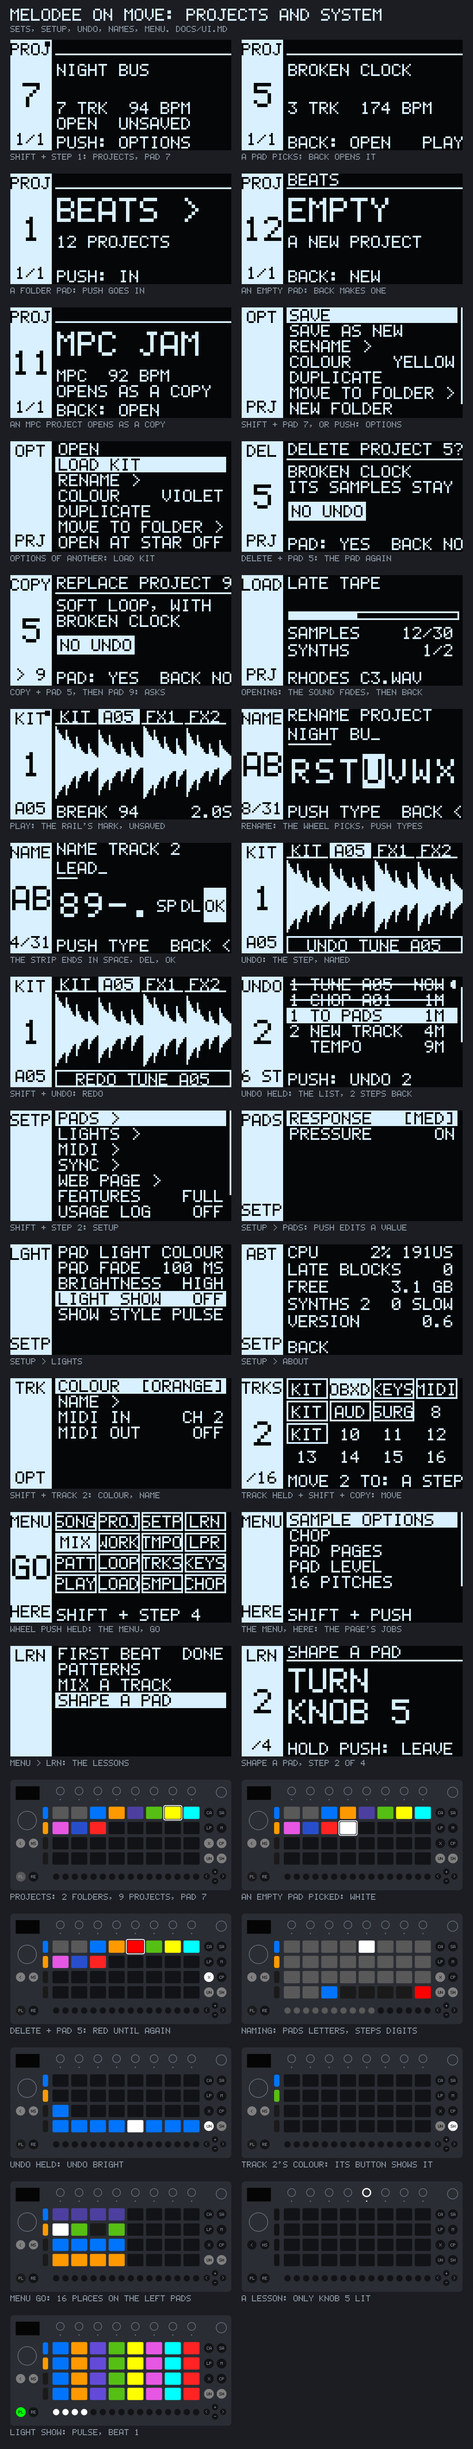
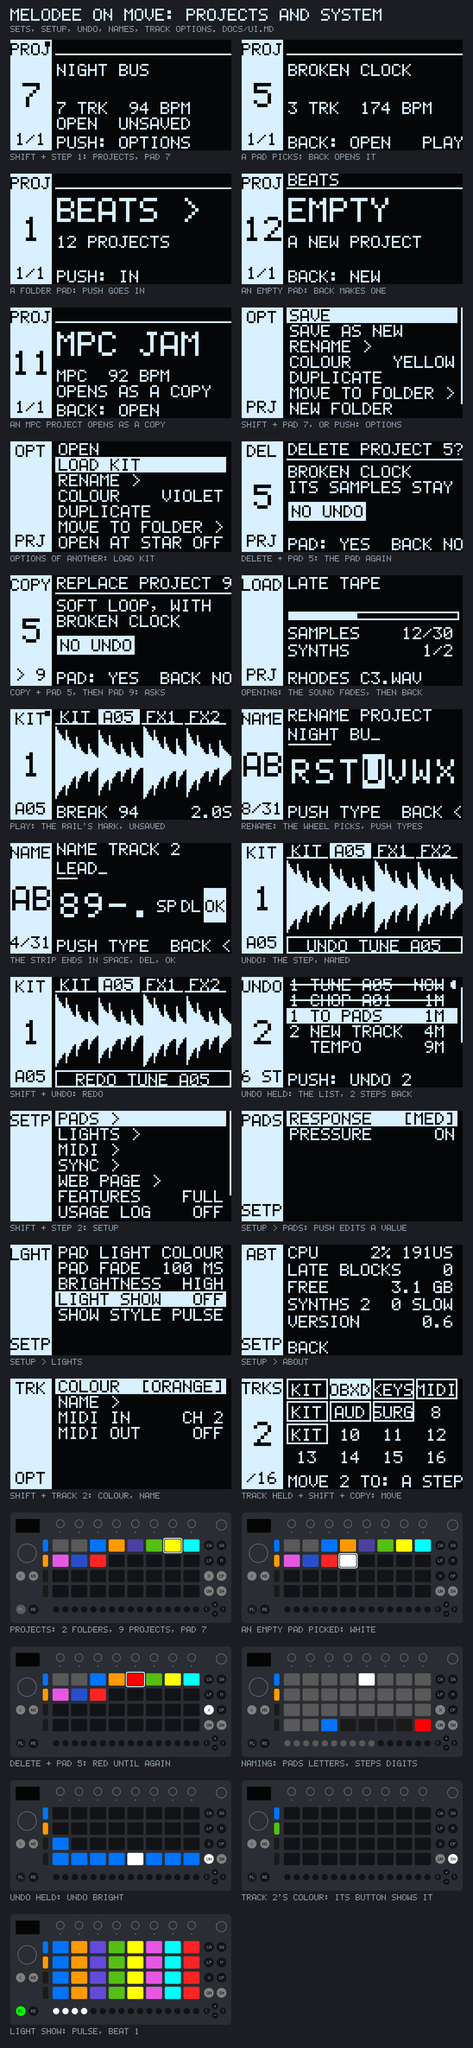
docs(move): projects, Setup, undo steps, naming and the remote; parity rows

diff --git a/docs/PARITY.md b/docs/PARITY.md
@@ -74,7 +74,7 @@ Kerem has checked it there. `n/a` rows have no box.
 | **MIDI track ports** on the new-track sheet: Out jack, USB-C, All USB (guide/tracks.md) | MIDI & sync & undo & projects | new-track sheet; USB only | [ ] |
 | **Delete a track**: sound, kit, patterns; its mix strip stays; asks (its undo: MIDI & sync & undo & projects) (MELODEE.md › The panel, Pad Bank) | done | track button held + Delete + step | [ ] |
 | **Copy a track**: sound, kit, 128 patterns, motion; the target keeps its strip; a synth gets its own instance of the module (MELODEE.md › Across every page, Copy) | done | track button held + Copy + step, then a step | [ ] |
-| **Move a track**: trades places; song clips, keys, lanes and sources follow it (MELODEE.md › Across every page, Move) | MIDI & sync & undo & projects | track button held + Shift + Copy + step, then a step | [ ] |
+| **Move a track**: trades places; song clips, keys, lanes and sources follow it (MELODEE.md › Across every page, Move) | done | track button held + Shift + Copy + step, then a step (or Shift + Copy + steps on the 16 tracks); a track there trades places; one undo | [ ] |
 | **Stage**: each track's home pages, B1 source, B2 how it plays, B3 where it goes (MELODEE.md › Playing) | kit depth | the track's Play screen (done: a kit's PLAY knobs, a module's pages); the rest as pad pages, Left / Right | [ ] |
 | **Synth presets**: walked, loaded a moment after the last turn (MELODEE.md › Playing, A synth) | done | jogwheel (Schwung modules) | [ ] |
 | **Synth EDIT**: the instrument's own parameters and page map (MELODEE.md › Playing, Edit) | done | knobs 1-8, Left / Right; push: the module's menu | [ ] |
@@ -315,51 +315,51 @@ Kerem has checked it there. `n/a` rows have no box.
 | --- | --- | --- | --- |
 | **The whole project as a `.mldp`** (MELODEE.md › Files on the card) | done | automatic | [ ] |
 | **Autosave** a moment after the last change and on the way out (melodee-move README › Saving) | done | automatic | [ ] |
-| **Project page**: Save, Open, New (or KIT: a factory kit on track 1) (MELODEE.md › Project and system) | MIDI & sync & undo & projects | Shift + Step 16, or Places > Project | [ ] |
-| **Project list**: folders, each project's tracks and tempo, sorting, the open one marked (MELODEE.md › Project and system) | MIDI & sync & undo & projects | jogwheel; push; Back | [ ] |
-| **Project sheet**: Save, Save as new, Rename, Duplicate, Move to folder, New folder, Open at start, Delete (MELODEE.md › Project and system) | MIDI & sync & undo & projects | push sheet | [ ] |
-| **Load kit (no patterns)** from another project (MELODEE.md › Project and system) | MIDI & sync & undo & projects | project sheet | [ ] |
-| **A save frees unused sample slots** (MELODEE.md › Project and system) | MIDI & sync & undo & projects | automatic | [ ] |
-| **UNSAVED** shown while there are changes (MELODEE.md › Project and system) | MIDI & sync & undo & projects | the rail | [ ] |
-| **Loading**: the sound fades, the audio thread waits while the project builds; the Loading sheet counts files (MELODEE.md › Project and system) | MIDI & sync & undo & projects | screen | [ ] |
+| **Project page**: Save, Open, New (or KIT: a factory kit on track 1) (MELODEE.md › Project and system) | done | Shift + Step 1, the Move's Set Overview: projects on the pads; the wheel's push or Shift + pad: Save, Open, New (an empty pad, then Back) | [ ] |
+| **Project list**: folders, each project's tracks and tempo, sorting, the open one marked (MELODEE.md › Project and system) | done | the pads, 32 a page (Plus / Minus), each project keeping its pad as a Set; folders grey (push in, Back out); its tracks and tempo, OPEN on the open one; pads in place of sorting | [ ] |
+| **Project sheet**: Save, Save as new, Rename, Duplicate, Move to folder, New folder, Open at start, Delete (MELODEE.md › Project and system) | done | the wheel's push or Shift + pad: Save, Save as new, Rename, Colour, Duplicate, Move to folder, New folder, Open at start, Delete (asks); Copy + pad, then a pad (asks before replacing); Delete + pad, the pad again | [ ] |
+| **Load kit (no patterns)** from another project (MELODEE.md › Project and system) | done | the project sheet of another project: Load kit, onto the selected track, one undo | [ ] |
+| **A save frees unused sample slots** (MELODEE.md › Project and system) | done | the project sheet's Save (a slot no pad plays and no undo can bring back) | [ ] |
+| **UNSAVED** shown while there are changes (MELODEE.md › Project and system) | done | a mark in the rail's top right corner; OPEN UNSAVED on the projects | [ ] |
+| **Loading**: the sound fades, the audio thread waits while the project builds; the Loading sheet counts files (MELODEE.md › Project and system) | done | the engine parked (faded out, silent) while the project is built, then faded in; the Loading sheet counts samples and synths, presses wait | [ ] |
 | **Card folders read ahead** (the MPC's exFAT driver) (MELODEE.md › Project and system) | n/a | a fix for the MPC's card driver; the Move's storage is internal | — |
-| **MPC Sample projects** `.xpj` opened as a copy (MELODEE.md › Project and system) | MIDI & sync & undo & projects | the project list | [ ] |
-| **MPC 3 projects** opened, keygroup and audio tracks too (guide/projects-and-files.md) | MIDI & sync & undo & projects | the project list | [ ] |
+| **MPC Sample projects** `.xpj` opened as a copy (MELODEE.md › Project and system) | MIDI & sync & undo & projects | built: listed on the pads, opened as a copy (Melodee's importer, compiled unchanged), saved as a .mldp beside it; not tested yet: no .xpj at hand (Kerem to check on the Move) | [ ] |
+| **MPC 3 projects** opened, keygroup and audio tracks too (guide/projects-and-files.md) | MIDI & sync & undo & projects | built as the MPC Sample's (the same importer); keygroup and audio tracks open as tracks, their playing instruments' and sampling's; not tested yet: no MPC 3 project at hand | [ ] |
 | **SD card access**: the card lent to a computer (MELODEE.md › Project and system) | n/a | no card; the web page's Files tab reaches the Move's storage | — |
-| **Settings**: eight doors, a short list each; Reset Factory Settings (MELODEE.md › Project and system) | MIDI & sync & undo & projects | Shift + Step 8; jogwheel the row, a knob sets it | [ ] |
-| **PADS settings**: pad response (soft, medium, hard, full level), pad pressure on / off, Double Seq (MELODEE.md › Project and system) | MIDI & sync & undo & projects | Settings | [ ] |
+| **Settings**: eight doors, a short list each; Reset Factory Settings (MELODEE.md › Project and system) | done | Shift + Step 2, the Move's Setup: doors PADS, LIGHTS (and move-midi's MIDI, SYNC, move-web's WEB PAGE); the wheel the row, push edits; Reset Factory Settings left out: the Move's own is Ableton's, Melodee's settings are few | [ ] |
+| **PADS settings**: pad response (soft, medium, hard, full level), pad pressure on / off, Double Seq (MELODEE.md › Project and system) | done | Setup > PADS: response (soft, medium, hard, full level), pressure on / off; Double Seq's copy is the sequencer's | [ ] |
 | **KNOBS settings**: takeover (MELODEE.md › Project and system) | n/a | relative knobs have nothing to pick up | — |
 | **SCREEN settings**: palette, fonts, brightness, the place bar's place (MELODEE.md › Project and system; guide/settings.md) | n/a | a one-bit screen with one font (UI.md) | — |
 | **Screen Mirror**: the MPC as a USB webcam of its screen (MELODEE.md › Project and system) | n/a | no USB video gadget on the Move's kernel; a screen view on the web page could stand in | — |
 | **AUDIO settings**: sample rate 44.1, 48, 96 kHz; buffer 256-1024 frames (MELODEE.md › Project and system) | n/a | the Move runs 44.1 kHz in blocks of 128 frames, set by its XMOS link | — |
 | **USB volume** (MELODEE.md › Project and system) | n/a | no USB audio | — |
 | **SAMPLING settings**: Recall grab, gap, trim end; Take auto end, after, silence below (MELODEE.md › Project and system) | sampling | Settings | [ ] |
-| **ABOUT**: each core's load, dropouts, storage room and stream misses, plug-ins' cost; versions, licence (MELODEE.md › Project and system) | MIDI & sync & undo & projects | Settings > About | [ ] |
-| **Usage log**: what the hands do, no names, a file each start (MELODEE.md › Files on the card; guide/settings.md) | MIDI & sync & undo & projects | Settings | [ ] |
-| **Name sheet**: pads type like phone keys (MELODEE.md › Project and system) | MIDI & sync & undo & projects | the pad keyboard module pages use (letters on pads, digits on steps) | [ ] |
+| **ABOUT**: each core's load, dropouts, storage room and stream misses, plug-ins' cost; versions, licence (MELODEE.md › Project and system) | done | Setup > ABOUT: the audio cycle's share and longest, late exchanges, room left, synths and their slow calls, the build | [ ] |
+| **Usage log**: what the hands do, no names, a file each start (MELODEE.md › Files on the card; guide/settings.md) | done | Setup > USAGE LOG: Usage/usage-<start>.txt, a line a job (the time, the screen, the job), no names, written every 10 s | [ ] |
+| **Name sheet**: pads type like phone keys (MELODEE.md › Project and system) | done | the Move's own typing (Kerem): the wheel walks a strip, push types, OK ends; pads letters, steps digits; Back deletes, held cancels | [ ] |
 
 ## Across every page
 
 | Feature | Status | Move controls | ✓ |
 | --- | --- | --- | --- |
 | **Screen grammar and header**: a glyph and two words, back on B1, the verb on B3, sheets as cards, where you are always shown (MELODEE.md › Across every page) | done | the Rail (UI.md): rail, subject, detail line, sheets | [ ] |
-| **Questions before a loss**: one sheet, what goes, whether undo brings it back (MELODEE.md › Across every page) | MIDI & sync & undo & projects | push yes, Back no | [ ] |
+| **Questions before a loss**: one sheet, what goes, whether undo brings it back (MELODEE.md › Across every page) | done | one sheet (ui::system::question): what goes, the undo chip; push yes (or the pad again), Back no | [ ] |
 | **Place bar**: the bars of the pattern playing, how far it has played, coloured by state (MELODEE.md › Across every page) | sequencer | step lights (the playhead); a bar on the rail | [ ] |
 | **Mute mode**: pads mute kit pads or tracks, Shift + pad solos, Shift + Mute unmutes all; kit pad mutes saved (MELODEE.md › Across every page) | mixer & effects | Mute (a tap latches, a hold lasts) + pad; Shift + Mute | [ ] |
 | **Mute and solo tracks** from the overview (MELODEE.md › Pad lights, Tracks) | mixer & effects | track button held + Mute + step | [ ] |
 | **Erase a kit pad**, stopped (MELODEE.md › Across every page, Erase) | kit depth | Delete + pad | [ ] |
 | **Close a gap**: an empty pad erased moves the pads after it down, notes and lanes too (MELODEE.md › Across every page, Erase) | kit depth | Delete + an empty pad | [ ] |
-| **Erase + pot**: the value back to its start (MELODEE.md › Across every page, Erase) | MIDI & sync & undo & projects | Delete + knob touch | [ ] |
-| **Erase tapped alone**: the page's selection (a note, step, pattern, track, loop, effect, slice, layer, project) (MELODEE.md › Across every page, Erase) | MIDI & sync & undo & projects | Delete tapped | [ ] |
+| **Erase + pot**: the value back to its start (MELODEE.md › Across every page, Erase) | done | Delete + knob touch: the motion deleted where the knob has some (the Move's), else the value back to its start (a kit pad's; a module's values have no start known yet) | [ ] |
+| **Erase tapped alone**: the page's selection (a note, step, pattern, track, loop, effect, slice, layer, project) (MELODEE.md › Across every page, Erase) | done | Delete tapped: on the projects, the one picked (asks); on Play, the Move's (the pattern, the sequencer's); each area's page its own selection | [ ] |
 | **Copy kit pads**: the first pad, then the target (MELODEE.md › Across every page, Copy) | kit depth | Copy + pad, then a pad | [ ] |
-| **Undo and redo**: the last 32 steps; a take, a control's turns, a press each one (MELODEE.md › Across every page, Undo) | MIDI & sync & undo & projects | Undo; Shift + Undo | [ ] |
-| **Undo list**: the steps with their glyphs and age, back to any one (MELODEE.md › Across every page, Undo) | MIDI & sync & undo & projects | Undo held | [ ] |
+| **Undo and redo**: the last 32 steps; a take, a control's turns, a press each one (MELODEE.md › Across every page, Undo) | done | Undo; Shift + Undo: 32 steps, a press each, a knob's turns one, a load one; history.h | [ ] |
+| **Undo list**: the steps with their glyphs and age, back to any one (MELODEE.md › Across every page, Undo) | done | Undo held: the steps with their track and age, struck through above the cursor; the wheel, push goes there | [ ] |
 | **Knob takeover**: Pickup, Scaled, Instant (MELODEE.md › Across every page) | n/a | relative knobs have nothing to pick up | — |
 | **Pad expression**: a pad's pressure as each note's poly aftertouch (MELODEE.md › Across every page) | done | pad pressure (Schwung modules) | [ ] |
 | **Text never under 11 px**, never cut (MELODEE.md › Across every page) | n/a | one 5 x 7 font at 128 x 64 (UI.md) | — |
-| **The Menu**: HERE, the page's jobs with their shortcuts; GO, the 16 places as the pads (guide/basics.md) | MIDI & sync & undo & projects | jogwheel push held; places on the pads | [ ] |
-| **Lessons**: First beat, Sequences, Mix a track, Shape a pad (guide/basics.md) | MIDI & sync & undo & projects | Places > Learn | [ ] |
-| **Basic and Full**: Basic shows the stock pages plus tracks, plug-ins, the mixer and Song (guide/settings.md) | MIDI & sync & undo & projects | Settings | [ ] |
+| **The Menu**: HERE, the page's jobs with their shortcuts; GO, the 16 places as the pads (guide/basics.md) | n/a | Kerem (2026-11-20): no Menu on the Move; Shift + the steps are the places | [ ] |
+| **Lessons**: First beat, Sequences, Mix a track, Shape a pad (guide/basics.md) | n/a | Kerem (2026-11-20): no Menu on the Move, so no Learn | [ ] |
+| **Basic and Full**: Basic shows the stock pages plus tracks, plug-ins, the mixer and Song (guide/settings.md) | done | Setup > FEATURES: Basic leaves out Melodee's Looper (Shift + Step 12); other areas ask `studio.settings.full` for their extras | [ ] |
 
 ## Sound engines and synths
 
@@ -398,7 +398,7 @@ Kerem has checked it there. `n/a` rows have no box.
 | **Idle plug-ins sleep** when silent (MELODEE.md › Threads and data) | schwung | covered by Schwung's modules, the Move's plug-ins | — |
 | **Support in the binary**: GUI stubs, libsndfile, libsamplerate, FFTW, the armhf runtime (MELODEE.md › Plug-ins) | schwung | covered by Schwung's modules, the Move's plug-ins | — |
 | **Saved with the project**: each plug-in's path and state (PLUG) (MELODEE.md › Plug-ins, Saving) | done | a Schwung module's state in its PLUG entry | [ ] |
-| **Replace a plug-in**: asks; one undo brings the old one back with its state (MELODEE.md › Plug-ins) | MIDI & sync & undo & projects | asks; its undo | [ ] |
+| **Replace a plug-in**: asks; one undo brings the old one back with its state (MELODEE.md › Plug-ins) | done | loading another Schwung module over one asks (the question sheet); one undo brings the old one back with its values | [ ] |
 | **Plug-in probe**: a command-line host to try a plug-in first (MELODEE.md › Plug-ins) | done | `--probe-modules` | [ ] |
 
 ## Files
@@ -408,7 +408,7 @@ Kerem has checked it there. `n/a` rows have no box.
 | **Projects** `.mldp` in tagged sections, written whole or not at all (MELODEE.md › Files on the card) | done | /data/UserData/Melodee/Projects | [ ] |
 | **Everything under one folder** (MELODEE.md › Files on the card) | done | /data/UserData/Melodee; `--home` moves it | [ ] |
 | **Folders named from outside** (`$MELODEE_*` on a host) (MELODEE.md › Files on the card) | done | `--home`, `--samples`, `--modules` | [ ] |
-| **Settings file**: settings, MIDI and Input Config, the project to open at start, the last one (MELODEE.md › Files on the card) | MIDI & sync & undo & projects | automatic | [ ] |
+| **Settings file**: settings, MIDI and Input Config, the project to open at start, the last one (MELODEE.md › Files on the card) | done | Move.settings: Setup's settings, the metronome, the track played last, start= and last= (MIDI and Input Config: move-midi's, sampling's) | [ ] |
 | **Samples folders**: Recorded, Edits, Banks, Looper, Expansions, Keygroups, Stems (MELODEE.md › Files on the card) | sampling | /data/UserData/Melodee/Samples | [ ] |
 | **Cache**: decoded long samples and instrument files, 4 GB, aged out after 30 days (MELODEE.md › Files on the card) | kit depth | /data/UserData/Melodee/Cache | [ ] |
 | **Export folders**: Mixdowns, Stems, MIDI, MPC 3 (MELODEE.md › Files on the card; guide/song.md) | song & export | /data/UserData/Melodee | [ ] |
@@ -420,8 +420,8 @@ Kerem has checked it there. `n/a` rows have no box.
 | Feature | Status | Move controls | ✓ |
 | --- | --- | --- | --- |
 | **Status line** with Melodee's fields (MELODEE.md › Remote) | done | the Move's status line every 5 s; each area adds its fields | [ ] |
-| **Remote presses** `melodee-press`: buttons, pads, knobs (MELODEE.md › Remote) | MIDI & sync & undo & projects | a command over SSH | [ ] |
-| **`melodee-render`**: render workers off or on (MELODEE.md › Remote) | MIDI & sync & undo & projects | a command over SSH | [ ] |
+| **Remote presses** `melodee-press`: buttons, pads, knobs (MELODEE.md › Remote) | done | `melodee-move --ctl 'melodee-press shift+step1'` over SSH: the runtime's control socket plays them into the Move's input | [ ] |
+| **`melodee-render`**: render workers off or on (MELODEE.md › Remote) | done | `melodee-move --ctl 'melodee-render serial|parallel'` | [ ] |
 | **`melodee-looper`** (MELODEE.md › Remote) | looper | a command over SSH | [ ] |
 | **`melodee-midi`**: a message into the input; panic (MELODEE.md › Remote) | MIDI & sync & undo & projects | a command over SSH | [ ] |
 | **`melodee-print`, `melodee-freeze`, `melodee-unfreeze`** (MELODEE.md › Print and freeze) | song & export | a command over SSH | [ ] |
@@ -475,15 +475,15 @@ sections, each on Shift + Step n.
 | **Play and Stop** (MELODEE.md › The panel) | done | Play, a toggle | [ ] |
 | **Sample Select**: the browser on a kit, the picker on a plug-in track (MELODEE.md › The panel) | done | Menu | [ ] |
 | **Exit** (Power): save and back to the stock app (MELODEE.md › Project and system) | done | Shift + Back | [ ] |
-| **Shift held**: the jobs lit white, toggles bright; toggles kept in the settings (MELODEE.md › Shift + pads) | MIDI & sync & undo & projects | Shift: the steps lit for their jobs | [ ] |
+| **Shift held**: the jobs lit white, toggles bright; toggles kept in the settings (MELODEE.md › Shift + pads) | done | Shift: the steps with a job lit, the metronome bright when on (move-controls); toggles kept in Move.settings | [ ] |
 | **Button lights**: bright in use, faint where they act, dark where they would do nothing (MELODEE.md › Lights) | done | the Move's button lights | [ ] |
 | **Track lights**: each track's colour, the selected one bright (MELODEE.md › Pad lights, Tracks) | done | Row1-4 | [ ] |
 | **Bank lights** A-H (MELODEE.md › Lights) | n/a | no bank lights; the rail names the bank | — |
 | **Level meters**: five lights a side, -24.1 to -0.1 dBFS; the input on Record (MELODEE.md › Lights) | mixer & effects | no meter lights: a meter on the screen | [ ] |
 | **Kit pad lights**: the selected pad Full, a sample Dim, empty dark, muted Faint red, a flare as it sounds; five rungs that keep each colour's hue (MELODEE.md › Pad lights) | kit depth | pad lights | [ ] |
 | **Key lights**: the key's roots in the track's colour, its other notes Dim, out of the key Faint (MELODEE.md › Pad lights) | instruments | pad lights | [ ] |
-| **Pad lights and Pad fade settings**; the Tap Tempo flash (MELODEE.md › Project and system, LIGHTS) | MIDI & sync & undo & projects | Settings | [ ] |
-| **Light show**: Pulse, Sweep, Chase, Ripple, Levels, in time with the tempo (MELODEE.md › Light show) | MIDI & sync & undo & projects | Sample + Mute; Up / Down the style | [ ] |
+| **Pad lights and Pad fade settings**; the Tap Tempo flash (MELODEE.md › Project and system, LIGHTS) | done | Setup > LIGHTS: pad lights (colour, white, off), pad fade (kept for kit depth's flares), brightness; the Tap Tempo flash is the sequencer's tap tempo | [ ] |
+| **Light show**: Pulse, Sweep, Chase, Ripple, Levels, in time with the tempo (MELODEE.md › Light show) | done | Setup > LIGHTS (Kerem: no key): Pulse, Sweep, Chase, Ripple, Levels in time with the tempo, on Play screens; a pad pressed flashes white | [ ] |
 
 ## Summary
 
@@ -517,7 +517,7 @@ tempo) touches, and where each stands now.
 | Move key | Ableton's meaning | Melodee on the Move | Status | ✓ |
 | --- | --- | --- | --- | --- |
 | **Play** | start / stop (20) | plays and stops the patterns | done | [ ] |
-| **Shift + Play** | retrigger the playing clips from their start (17.1.5) | nothing yet: the bindings table | MIDI & sync & undo & projects | [ ] |
+| **Shift + Play** | retrigger the playing clips from their start (17.1.5) | every playing pattern from its top (Studio::restart) | done | [ ] |
 | **Rec** | record into the selected track's clip, after a count-in (14.1) | Seq Record | sequencer | [ ] |
 | **Track button** | select the track (20) | selects one of the bank's four of sixteen | done | [ ] |
 | **Track button held** (an unselected one) | look at that track without selecting it (20) | selects it on the press; held, the sixteen, the steps pick (free on the Move) | MOVE_CONTROLS.md decides | [ ] |
@@ -525,7 +525,7 @@ tempo) touches, and where each stands now.
 | **Mute** | mute the selected track (16.4) | the same | done | [ ] |
 | **Mute + track button** | mute that track (16.4) | the same; its button grey | done | [ ] |
 | **Shift + Mute + track button** | solo that track, its button blue (16.3) | the same | done | [ ] |
-| **Shift + track button** | the track's options (colour, MIDI channel) | nothing yet | MIDI & sync & undo & projects | [ ] |
+| **Shift + track button** | the track's options (colour, MIDI channel) | its colour and name; the MIDI channel move-midi's | done | [ ] |
 | **Copy / Delete + track button** | Control Live only (18.2) | free; Melodee copies and deletes with a track button held and the steps | done | [ ] |
 | **Shift + Step 5** | Tempo: the wheel, Shift + wheel finer, push confirms (10.1) | the same | done | [ ] |
 | **Shift + Step 6** | Metronome on / off (10.3) | the same; the wheel its level | done | [ ] |
@@ -537,6 +537,6 @@ tempo) touches, and where each stands now.
 | **Volume knob** | the main volume (16.1) | the same | done | [ ] |
 | **Wheel, its push, Shift + wheel** | choose, confirm, finer (20, 10.1) | the same on every screen | done | [ ] |
 | **Back** | leave a menu or view (20) | the same | done | [ ] |
-| **Undo, Shift + Undo** | undo, redo (20) | not yet | MIDI & sync & undo & projects | [ ] |
+| **Undo, Shift + Undo** | undo, redo (20) | the same, every step named; held, the undo list | done | [ ] |
 | **Capture** | the last notes played into a clip (14.3) | not yet | sampling | [ ] |
 | **Sample** ("Sampling") | Sampling mode (15.1) | not yet | sampling | [ ] |

diff --git a/docs/UI.md b/docs/UI.md
@@ -186,6 +186,87 @@ Chop), Kerem decides with that map. `docs/ui/tracks.png` is the sheet
 | Metronome (Shift + Step 6) | `MET` | `ON` or `OFF` large, its level | `PUSH: OK` |
 | Groove (Shift + Step 7) | `GRV` | the groove in % large | `PUSH: OK` |
 
+## Projects and system
+
+Projects, Setup, undo, naming and a track's options, as the Move has them
+(Shift + Step 1, Shift + Step 2, Undo, Shift + a track button) and Kerem
+chose (docs/MOVE_CONTROLS.md, Decisions). `docs/ui/projects.png` is the
+sheet (`src/ui/mockups_projects.cpp`); the screens draw with the same code
+(`src/ui/system_draw.*`), so each is its mockup.
+
+![Projects and system](ui/projects.png)
+
+- **Projects** (Shift + Step 1, the Move's Set Overview): a folder's
+  projects on the 32 pads, the top row first, each in its colour, folders
+  grey, the one picked pulsing, an empty pad white when picked. A project
+  keeps its pad (the folder's `.move-pads`); one put there from elsewhere
+  takes the first free pad; Plus and Minus page through 32 at a time. The
+  screen names the pad's project large, its tracks and tempo, OPEN on the
+  one open (UNSAVED while it has changes), AT START on the one opened at
+  start. A pad picks; **Back or a track button opens it** (the sound fades,
+  the audio thread waits while it is built, the Loading sheet counts its
+  samples and synths, the sound comes back); an empty pad, then Back, makes
+  a new project there; Play opens the one picked and plays it (the Move's
+  preview). The wheel walks the pads. A folder's push goes in, Back comes
+  out. MPC projects (`.xpj`) open as a copy, saved as a `.mldp` beside it.
+- **Options** (the wheel's push, or Shift + a pad): the open project's SAVE
+  (the sample slots nothing plays freed), SAVE AS NEW, RENAME, COLOUR,
+  DUPLICATE, MOVE TO FOLDER, NEW FOLDER, OPEN AT START; another's OPEN,
+  LOAD KIT (its first kit onto the selected track, its patterns left: one
+  undo), RENAME, COLOUR, DUPLICATE, MOVE TO FOLDER, OPEN AT START, DELETE.
+- **Copy and Delete**, as the Move: Copy + a pad, then a pad copies it
+  there (asking before it replaces one, the pad again says yes); Delete + a
+  pad asks, the pad again deletes (Delete alone asks for the one picked).
+- **The question** before a loss (Melodee's one sheet): what is asked, one
+  or two lines of what goes, a chip saying whether undo brings it back
+  (`UNDO BRINGS BACK`, or `NO UNDO` inverted), push yes, Back no. Deleting
+  or replacing a track, a project, or a synth's module all ask here.
+- **Undo**: Undo takes the last step back and says which (`UNDO TUNE A05`),
+  Shift + Undo redoes. **Undo held** opens the undo list: the steps
+  undone, then the steps done, newest first, each with its track and age,
+  then START; the cursor opens on the state in hand (a notch at its right),
+  the rows above it struck through (undone once it is reached); the wheel
+  or Plus / Minus move it, a push goes there, Back closes it.
+- **UNSAVED**: a black mark in the rail's top right corner while the
+  project has changes not saved yet (autosave takes it away).
+- **The name sheet** (rename, save as new, a track's name, a module page's
+  text): the Move's own typing. The wheel walks a strip of characters (the
+  one in the box inverted), its push types it; the strip ends with SP, DL
+  and OK. The pads type letters at once (letters grey, space blue, delete
+  red), the steps digits; Back deletes, held cancels; Shift is upper case.
+  The rail says `NAME`, the case, and how much of the room the name takes.
+- **Setup** (Shift + Step 2): PADS (response soft, medium, hard, full;
+  pressure), LIGHTS (pad lights colour, white, off; pad fade; brightness
+  low to max, as the Move's; the light show and its style: Pulse, Sweep,
+  Chase, Ripple, Levels, in time with the tempo), MIDI and SYNC (move-midi),
+  WEB PAGE (move-web), FEATURES (Full, or Basic: the Move's own pages,
+  tracks, modules, the mixer and Song), USAGE LOG, ABOUT (the audio cycle's
+  share and longest, late exchanges, room left, synths and their slow
+  calls, the build), BACK TO MOVE. A push opens a door or edits a value
+  (`[MED]`: the wheel turns it, a push keeps it, Back leaves it as it was);
+  a value of two flips at once. Step 2 flashes while it is open.
+- **A track's options** (Shift + a track button): its COLOUR (the wheel
+  turns it, the track button and the pads showing it as it turns) and its
+  NAME; move-midi adds its MIDI channels. Both are undo steps.
+
+| Screen | Rail | Subject | Detail |
+| --- | --- | --- | --- |
+| Projects | `PROJ` / pad / page | the folder; the project's name large, tracks and tempo, OPEN, UNSAVED | `BACK: OPEN` `PLAY`; `PUSH: OPTIONS`; `PUSH: IN`; `BACK: NEW` |
+| Options | `OPT` / / `PRJ` or `FLDR` | the rows | |
+| Question | the verb / the number / what | the question, what goes, the undo chip | `PUSH YES` or `PAD: YES`, `BACK NO` |
+| Loading | `LOAD` / / `PRJ` | the name, a bar, samples and synths read | the file being read |
+| Undo list | `UNDO` / steps to go / steps kept | the steps, the state in hand marked | `PUSH: UNDO 2`, `PUSH: REDO 1` |
+| Name sheet | `NAME` / case / length | the title, the name and its room, the strip | `PUSH TYPE`, `BACK <` |
+| Setup | `SETP`, `PADS`, `LGHT` | the rows, values at the right | |
+| About | `ABT` / / `SETP` | CPU, late, free, synths, version | `BACK` |
+| Track options | `TRK` / track / `OPT` | COLOUR, NAME (and MIDI) | |
+
+Lights: the projects on the pads (above); the question's pad red, the rest
+dark; the name sheet's keys; Undo bright on the undo list; Setup's Step 2
+flashing; a track's colour on its button as it is turned. Setup's
+brightness dims every light as it is sent (`move::Lights::set_brightness`);
+its pad lights and the light show draw over a Play screen's pads.
+
 ## Screens in code
 
 Each screen is a file of its own in `src/app/screens/`, a `Screen`

diff --git a/README.md b/README.md
@@ -79,11 +79,40 @@ Three parts so far:
   Shift for capitals; push is done, Back held cancels. A file the page hands over (Webstream's download)
   goes onto the first empty kit pad, to play and chop. An action such as
   play/pause or stop is a button: push its menu row, or turn its knob up.
+- **Projects** (Shift + Step 1, the Move's Set Overview): a folder's
+  projects on the 32 pads, each keeping its pad, folders grey, the one
+  picked pulsing. A pad picks; Back or a track button opens it (the sound
+  fades out, the audio thread waits while it is built, a Loading sheet
+  counts its files, the sound comes back); an empty pad, then Back, makes a
+  new one there; Play opens and plays it. The wheel's push (or Shift + a
+  pad) has its options: Save (the sample slots nothing plays freed), Save
+  as new, Rename, Colour, Duplicate, Move to folder, New folder, Open at
+  start; on another, Open, Load kit (its first kit onto the selected
+  track), Delete. Copy + a pad, then a pad copies one; Delete + a pad asks,
+  the pad again deletes it. MPC projects (`.xpj`) open as a copy. A mark in
+  the rail's corner says the open project has changes not saved yet.
+- **Undo** (Undo; Shift + Undo redoes; held, the undo list): the last 32
+  steps of anything in the project, each named on the screen (`UNDO TUNE
+  A05`). A press is a step, a knob's turns are one (until another control
+  or two seconds still), a load is one; mutes, the octave and the pad
+  played are not. docs/MOVE_CONTROLS.md, "Undo steps", says how a screen
+  marks one.
+- **Setup** (Shift + Step 2) is Melodee's Settings: the pads' response and
+  pressure, pad lights, pad fade, the lights' brightness, a light show in
+  time with the tempo, Basic or Full, a usage log (`Usage/`, what the hands
+  do, no names), About, and Back to Move. **Shift + a track button** is the
+  track's options: its colour and name. Names are typed the Move's way: the
+  wheel walks the characters, its push types one, OK at the end of the
+  strip; the pads type letters at once.
+- Before anything is lost (a track deleted or replaced, a project deleted,
+  a synth's module replaced) one question sheet asks, saying what goes and
+  whether undo brings it back.
 - The master knob is the volume; Shift + Back goes back to Move.
-- **Saving**: the whole project is one Melodee project file,
-  `/data/UserData/Melodee/Projects/Move.mldp` (`--home` moves the folder),
-  saved three seconds after the last change, as Melodee autosaves on the
-  MPC, and on the way out; the next start opens it. Melodee on the MPC opens
+- **Saving**: the whole project is one Melodee project file in
+  `/data/UserData/Melodee/Projects` (`--home` moves the folder; the first
+  one is `Move.mldp`), saved three seconds after the last change, as
+  Melodee autosaves on the MPC, and on the way out; the next start opens
+  the one set to open at start, else the one open last. Melodee on the MPC opens
   it, and the Move opens the MPC's (where the samples' paths lead to the
   same files). Samples are kept by path; one that has gone keeps its pads,
   silent, until it is back. Melodee keeps a sample's chop in the WAV file
@@ -101,7 +130,7 @@ Three parts so far:
   is folded into one file on the first start; the old side files stay as
   `*.migrated`.
 
-Not yet: more than one project, editing patterns, samples over 60 seconds,
+Not yet: editing patterns, samples over 60 seconds,
 Record, Capture, Schwung's effects, mixer pages; docs/PARITY.md has the rest.
 
 ### How a Schwung module is hosted
@@ -145,6 +174,26 @@ each module's own pages and draws them there as PNGs.
 Melodee's engine and model are compiled from a melodee-sample checkout
 beside this one (`../melodee-sample`, or `MELODEE_SAMPLE`), unchanged.
 `build/melodee-move --melodee-previews DIR` draws its real screens.
+
+### Remote
+
+`melodee-move --ctl 'COMMAND'` (over SSH, on the Move) talks to the running
+Melodee through its socket, `/data/UserData/Melodee/melodee-move.sock`
+(`--home DIR` or `--control SOCKET` for another), as `device.py ctl` does
+on the MPC:
+
+- `status`: the status line, now;
+- `melodee-press SPEC`: presses played into the Move's input as if a hand
+  made them (they reach the pads' audio path and the controls alike):
+  `play`, `shift+step1`, `delete+pad5`, `track1+copy+step3`, `wheel+2`,
+  `knob1-3`, `volume+5`, `hold-shift` / `release-shift`, `long-undo`;
+  buttons are `play rec shift back note-session capture sampling loop mute
+  undo copy delete plus minus left right wheel-push track1`..`track4`, pads
+  `pad1`..`pad32` (bottom left first), steps `step1`..`step16`;
+- `melodee-render serial|parallel`: the render workers left asleep or used.
+
+The runtime (`src/move/remote.*`) owns the socket; an app answers its own
+commands through `App::command()`.
 
 ## Two ways onto the Move
 

diff --git a/docs/MOVE_CONTROLS.md b/docs/MOVE_CONTROLS.md
@@ -384,6 +384,42 @@ rule (Shift + Step n as the MPC's Shift + Pad n, Menu to load, Shift +
 Capture for Recall, Left / Right for pages): this map wins where they
 differ.
 
+## Undo steps
+
+Undo needs nothing from a job but its name. The studio keeps a copy of the
+project as the last step left it (`src/app/history.*`): Melodee's
+`Project` (its bytes, the parts that changed), the sample and chop slots,
+the patterns, the Move's own part (`MoveExtras`: colours) and each Schwung
+module's values set through `Studio::synth_set()`. The app closes a step
+(`Studio::close_step()`) after every press's job, and after a turn's: the
+same knob or wheel turning on is the same step, until another control is
+used or it rests two seconds (Melodee's rule); the service thread closes
+its own after a sample or a module is loaded. Whatever changed since the
+last close is the step.
+
+A screen marks a step by changing the project as it does today (and
+calling `Studio::changed()` for the autosave). It may:
+
+- name it, for the screen and the undo list: `studio.name_step("CLEAR
+  P3", track)` in its `job()`; else a knob's turns are its name and owner
+  (`TUNE A05`, from `Screen::knob()` and `knob_owner()`), the rest the
+  job's name spelled out (`DUPLICATE PATTERN`);
+- say a change is no step (performance, as Melodee leaves out mutes,
+  solos, the octave, the pad played, the pattern launched):
+  `studio.not_a_step()`, or add the job to `no_step()` in
+  `melodee_app.cpp`; the next close takes the change in without a step, and
+  no undo touches it later;
+- hold a step open past its press (a take): `studio.hold_step("TAKE",
+  track)`, then `studio.release_step()`.
+
+An undo puts the changed parts back and tells the engine: a `TrackLoad`
+for each track it touched, the tempo and swing by their commands, and
+anything else of the project (a bus, the master, the song) by rebuilding
+the engine with the audio thread parked (`Studio::rebuild()`, the
+transport going on from the top). A module comes back with its values, or
+the module replaced is loaded again as it was. A project opened or made
+forgets the steps, as in Melodee.
+
 ## The tests
 
 `build/controls-tests` (`tests/controls_tests.cpp`, run by `./build.sh`)
